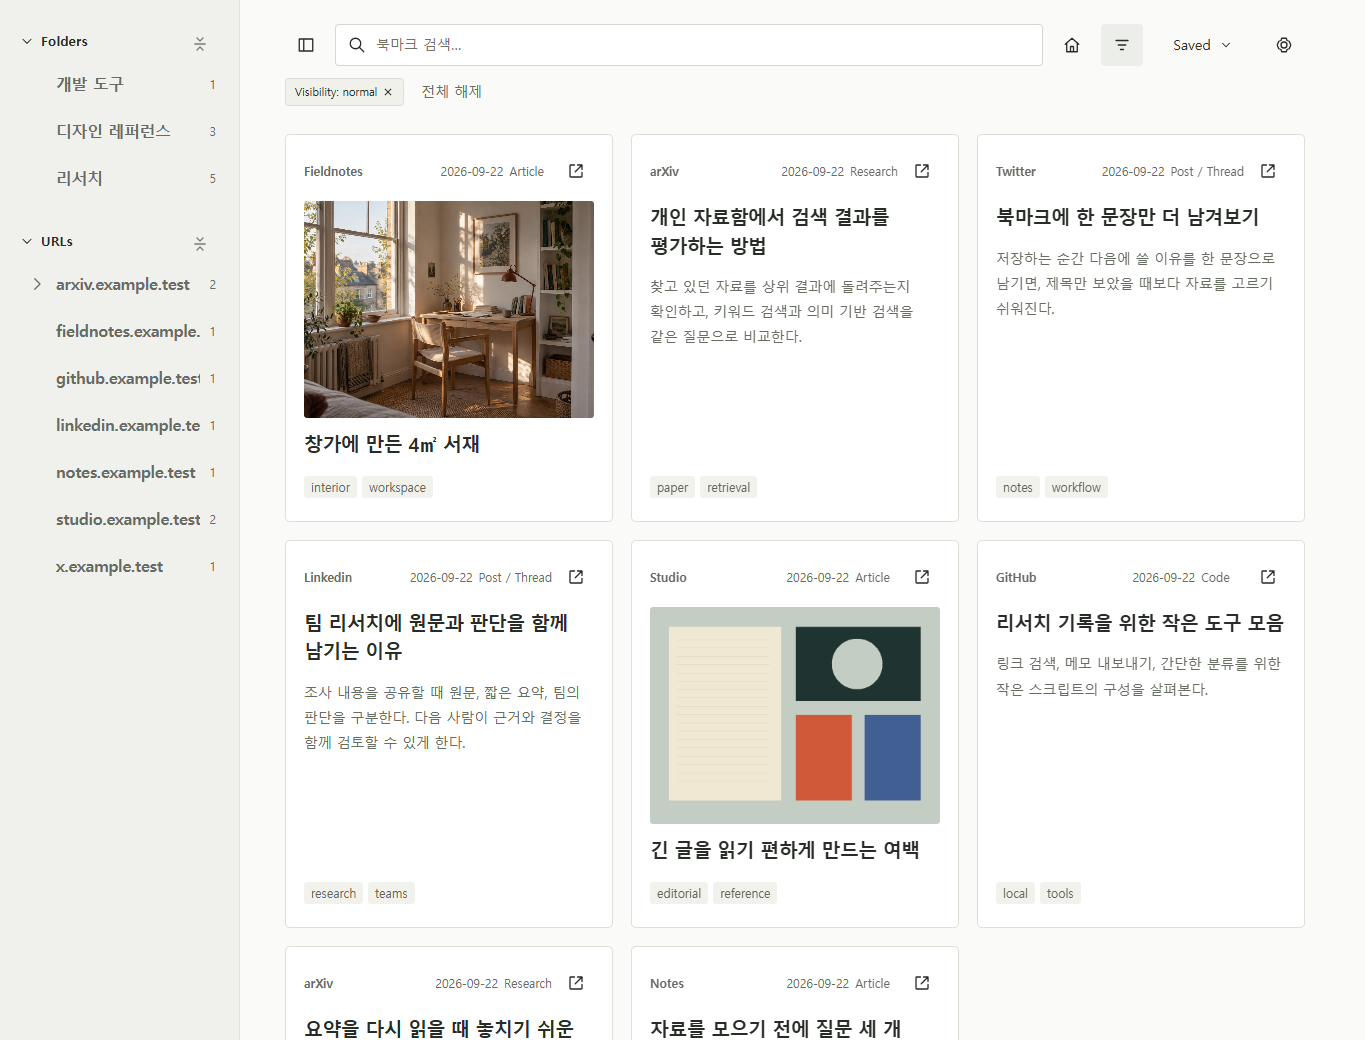
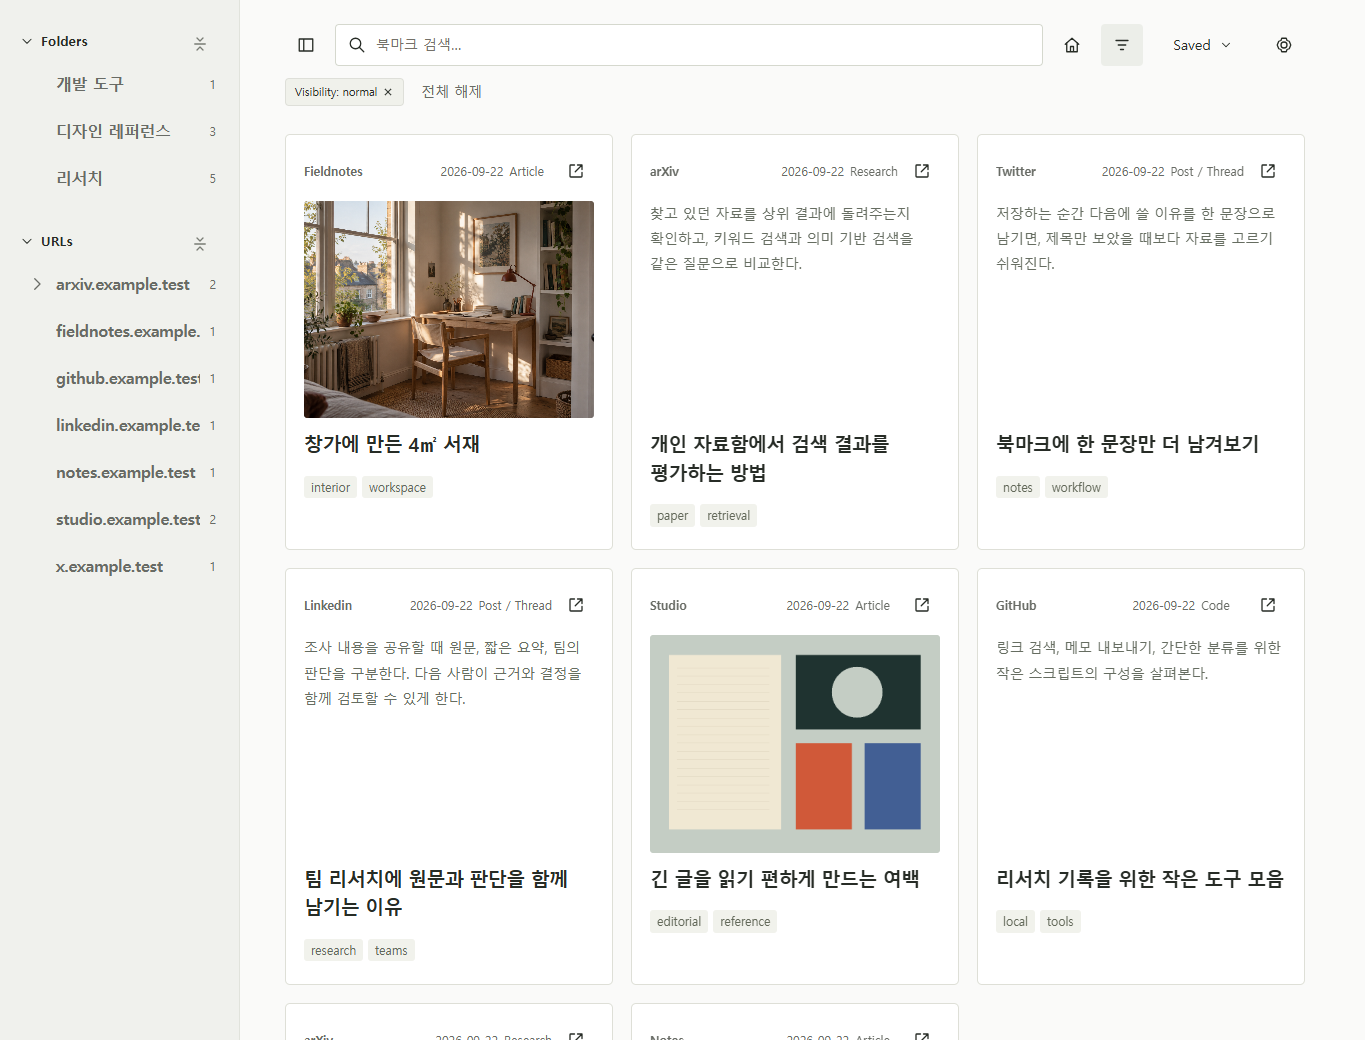
Update public template: card-title-order-20260922

diff --git a/web/ui-theme.css b/web/ui-theme.css
@@ -57,19 +57,16 @@
 .results-grid { grid-template-columns:repeat(3,minmax(0,1fr)); grid-auto-rows:auto; gap:18px}
 .entry-card { border-color:#dedfd7; border-radius:5px; background:#fff}
 .entry-card:hover { box-shadow:0 3px 12px #2528240b; background:#fefefd}
-.entry-card-body { gap:0; padding:19px 19px 13px}
-.entry-card-grid .entry-meta { min-height:30px; margin-bottom:14px; gap:6px; flex-wrap:wrap}
+.entry-card-body { gap:12px; padding:19px 19px 13px}
+.entry-card-grid .entry-meta { min-height:30px; gap:6px; flex-wrap:wrap}
 .entry-meta .entry-source { font-size:11px; font-weight:600; max-width:45%; letter-spacing:0}
 .entry-meta-facts { font-size:10px; gap:6px}
 .entry-date,.entry-kind { font-size:10px}
 .entry-card-external { width:30px; min-width:30px; height:30px; min-height:30px; font-size:17px}
-.entry-card-title { font-size:19px; font-weight:650; letter-spacing:-.6px; line-height:1.5; min-height:0; flex:0 0 auto; margin:0 0 14px!important; display:-webkit-box; -webkit-line-clamp:2; -webkit-box-orient:vertical; overflow:hidden}
-.entry-card-main { aspect-ratio:auto; container-type:normal; display:block; flex:1; min-height:90px; margin-bottom:18px}
-.entry-card-main[data-card-state=cover] { aspect-ratio:4/3; height:auto; min-height:0; flex:none; overflow:hidden; border-radius:3px}
-.entry-card-grid[data-card-state=cover] .entry-card-body { gap:12px}
-.entry-card-grid[data-card-state=cover] :is(.entry-meta,.entry-card-main,.entry-card-title,.entry-card-footer) { margin:0!important}
+.entry-card-title { font-size:19px; font-weight:650; letter-spacing:-.6px; line-height:1.5; min-height:0; flex:0 0 auto; display:-webkit-box; -webkit-line-clamp:2; -webkit-box-orient:vertical; overflow:hidden}
+.entry-card-main { aspect-ratio:4/3; container-type:normal; display:block; height:auto; min-height:0; flex:none; overflow:hidden; border-radius:3px}
+.entry-card-grid :is(.entry-meta,.entry-card-main,.entry-card-title,.entry-card-footer) { margin:0!important}
 .entry-card-summary { margin:0; color:#73776d; font-size:13px; line-height:1.8; word-break:keep-all; overflow-wrap:anywhere; display:-webkit-box; -webkit-line-clamp:4; -webkit-box-orient:vertical; overflow:hidden}
-.entry-card-main.has-no-summary { min-height:60px}
 .has-no-summary .entry-card-summary { font-size:12px; color:#777b72}
 .entry-card-footer { margin-top:auto; gap:5px; min-height:32px}
 
@@ -105,9 +102,8 @@
 @media(max-width:700px) { .main-content { padding:22px 16px 100px}
 .results-grid { grid-template-columns:1fr; gap:14px}
 .entry-card-body { padding:18px 19px 12px}
-.entry-card-main { min-height:0; margin-bottom:12px}
 .entry-card-summary { -webkit-line-clamp:3}
-.entry-card-title { font-size:20px; margin-bottom:10px!important}
+.entry-card-title { font-size:20px}
 .entry-meta .entry-source { max-width:50%}
 .entry-select-target { width:44px; min-height:44px}
 .entry-select-checkbox { width:18px; height:18px}
@@ -131,7 +127,6 @@
 .entry-date,.entry-kind { font-size:11px}
 .entry-meta-facts { flex-wrap:wrap; justify-content:flex-start}
 .entry-card-external { width:36px; min-width:36px; height:36px; min-height:36px}
-.entry-card-main { min-height:100px}
 .entry-card-body { padding:18px}
 .entry-card-footer { margin-top:0}
 .tag { font-size:11px}
@@ -139,8 +134,7 @@
 .active-filter-chips { flex:0 0 auto}
 .tree-select-improved { font-size:14px}
 .tree-count-improved { font-size:12px}
-@media(max-width:700px) { .entry-card-main { min-height:0}
-
+@media(max-width:700px) {
 .entry-meta .entry-source { font-size:13px}
 .entry-date,.entry-kind { font-size:12px}
 .entry-card-summary { font-size:15px}

diff --git a/test/web-view.test.js b/test/web-view.test.js
@@ -227,7 +227,7 @@ test('production shell separates user Folders, URL structure, Add URL metadata, 
   assert.match(view, /link\.addEventListener\('click', stopCardInteraction\);[\s\S]*link\.addEventListener\('pointerup', stopCardInteraction\);[\s\S]*link\.addEventListener\('keydown', stopCardInteraction\)/);
   assert.match(view, /if \(presentation\.title\) \{[\s\S]*body\.append\(title\)/);
   assert.match(view, /entry-card-summary/);
-  assert.match(view, /body\.insertBefore\(title, main\)/);
+  assert.doesNotMatch(view, /body\.insertBefore\(title, main\)/);
   assert.match(view, /const facts = element\('span', 'entry-meta-facts'\)/);
   assert.match(view, /header\.append\(metaLine\(entry, externalUrl\(presentation\.url\)\)\)/);
   assert.match(view, /fallback\.append\(cardFallbackStage\(presentation\)\)/);

diff --git a/web/view.js b/web/view.js
@@ -377,8 +377,7 @@
     if (presentation.title) {
       const title = element('h3', 'entry-title entry-card-title', presentation.title);
       title.dataset.tooltip = presentation.title;
-      if (presentation.state === 'cover') body.append(title);
-      else body.insertBefore(title, main);
+      body.append(title);
     }
     const tags = tagList(entry, 3);
     appendResultFooter(body, entry, tags, selectedIds, onSelect);

diff --git a/docs/PROJECT.md b/docs/PROJECT.md
@@ -5,7 +5,7 @@ Web Bookmark Hub is a local, private index of web pointers shared by a person an
 ## Implemented boundaries
 
 - `registry/` owns SQLite persistence, canonical URL reuse, folders, tags, rules, visual assets, revisions and AI eligibility. One canonical URL identifies one entry; repeated capture preserves authored metadata.
-- `web/` owns the human UI and retrieval state. Grid is general; Feed selects entries with covers; List selects entries without covers. Shared search, filters and sort apply to all views. Details are read-first dialogs with explicit autosaving editing.
+- `web/` owns the human UI and retrieval state. Grid is general; every Grid card reads metadata, a 4:3 image or summary stage, then the title and available tags, including missing-content and failed-image states. Feed selects entries with covers; List selects entries without covers. Shared search, filters and sort apply to all views. Details are read-first dialogs with explicit autosaving editing.
 - `server/` owns the authenticated loopback HTTP API. Web writes require sessions and CSRF; extension clients use paired credentials. Do not expose the server to the public internet.
 - `extension/`, `profiles.js`, `content-script.js`, `popup.*` and `service-worker.js` own explicit current-page and selected-image capture. Site templates discover candidates; they do not author privacy or storage policy.
 - `enrichment/` owns bounded link extraction and the Codex summary prompt. Local agent CRUD is a convenience path; it is not host isolation. See `docs/project/ENRICHMENT.md`.
